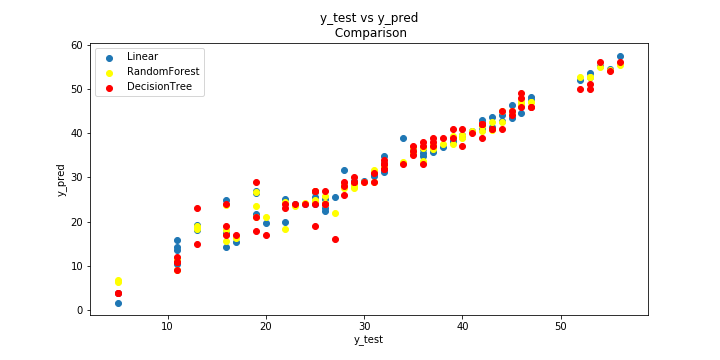
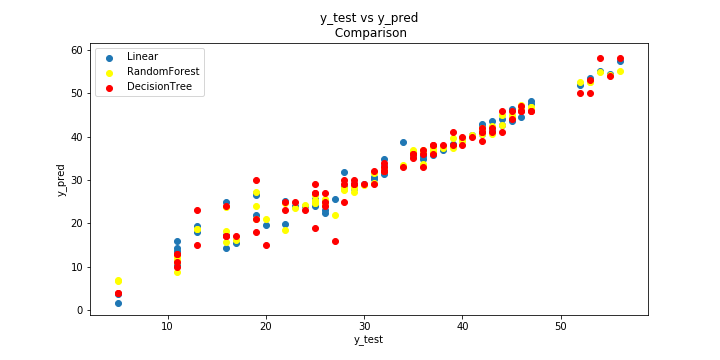
Readme updated

diff --git a/README.md b/README.md
@@ -1,2 +1,61 @@
-# Spectrum_Internship
+# Spectrum Internship
+# Data Science and Machine Learning Project 
+# Final Report
+
+#About the Internship:
+ This online summer internship was conducted by Spectrum Club, College Of Engineering and Technology, Bhubaneswar for a period of 1 month in May ending on 31st May,2020.
+ The whole internship was divided into 3 tasks and one pretask concluding with a Student Grade Prediction model.
+
+#About the Project:
+ In this internship, I have built a Student Grade Prediction Model based on various machine learning techniques on the student's grade dataset given by the organiser.
+ 
+	#Language used:
+		Python 3.7
+	#Libraries used:
+		numpy
+		pandas
+		sklearn
+		statsmodel.api
+		matplotlib.pyplot
+		seaborn
+	#Tools used:
+		Spyder
+		github
+
+#Project Highlights:
+	#Task-1:
+	 For the first task, numpy and matplotlib libraries were used which concluded on 8th,May,2020. This task was meant to get us familiar with the numpy and matplotlib
+	 libraries.
+	#Task-2 and Final_Task:
+	 Both task-2 and the final-task used the student-math dataset given by the organisers and I continued the work done in task-2 in the final-task. The final task 
+	 concluded with the final project i.e. Student Grade Prediction Model
+
+#Main tasks done:
+	I added a column called "final_grade" to the dataset which is the summation of the three columns named "G1","G2","G3" which depicted the marks of the students.
+	Then, the data was preprocessed using sklearn.preprocessing library to encode the categorical valued attributes in the dataset.
+	
+	On the encoded and modified dataset linear regression model was applied, trained and then fitted. The predicted values were plotted along with the actual test values
+	in a scatter plot and the accuracy scores were calculated.
+	
+	To further optimize the model and make the predictions more accurate the backward elimination method was applied on an OLS(Ordinary Least Squares) regressor model
+	using the statsmodel.api and then the final summary was recorded.
+	
+	Atlast, I used three different regression models namely, Linear Regression model, RandomForest Regression model and Decision Tree Regression model on the same dataset
+	and the results were compared and plotted. 
+
+#Results:
+1.Linear regression model:
+
+	Accuracy Scores:
+	Train score: 0.9759271752511826
+	Test score: 0.9615725887131311
+	Predict score: 1.0
+	
+	Plot:
+	
+
+
+
+	
+ 
 
